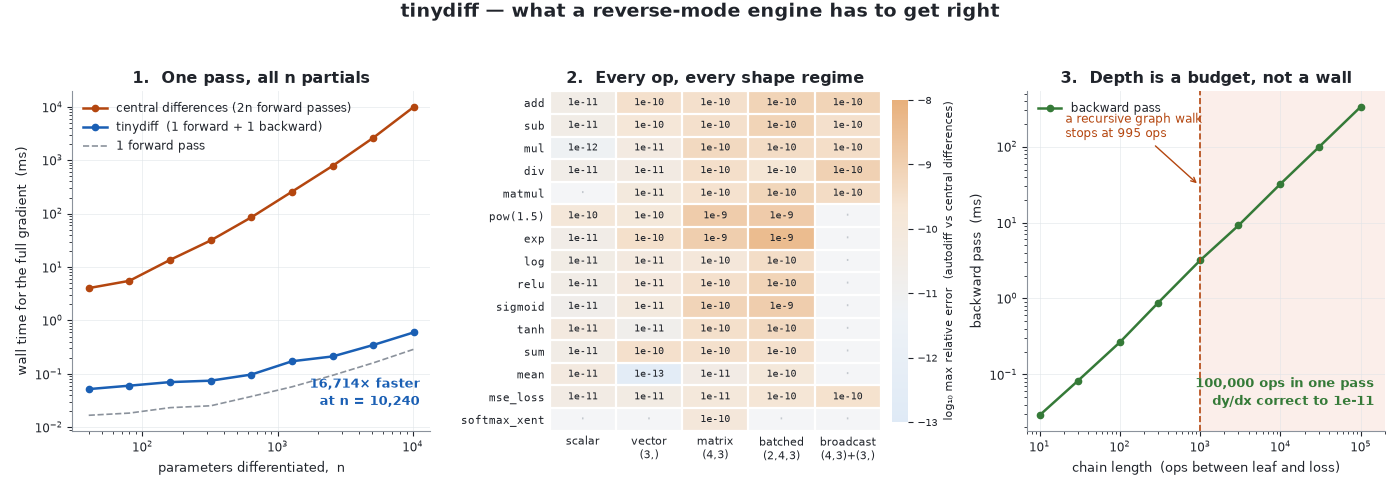
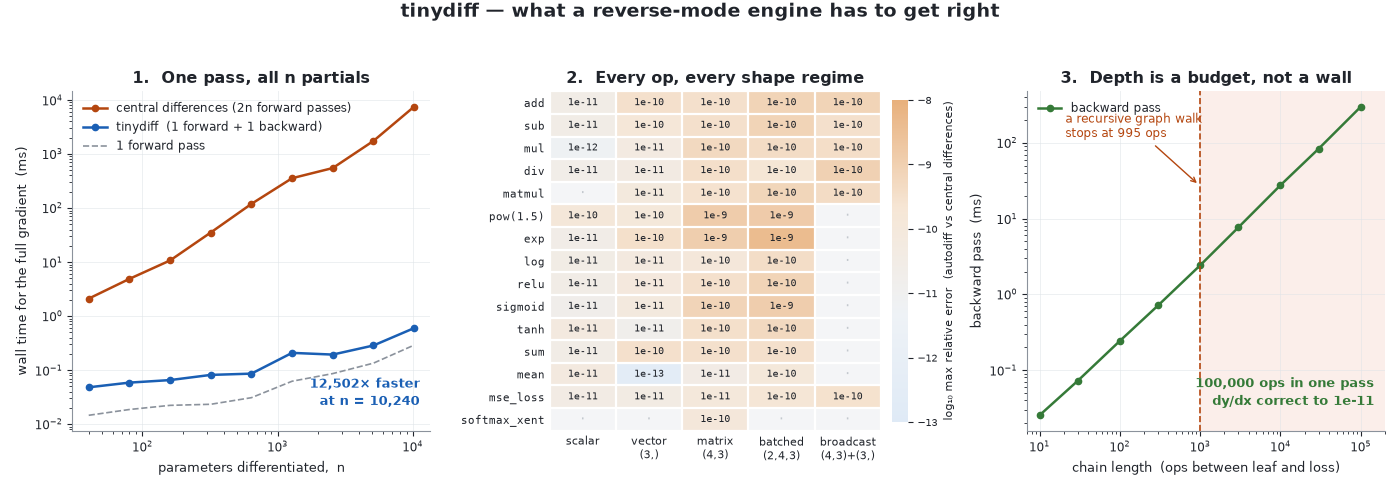
docs: fix self-contradicting spiral claim and five other unmeasured numbers
The spiral paragraph called the post-epoch-800 gradient fall a "three-decade
drop" and then quoted two losses 1.5 decades apart, in one sentence. Both
halves were wrong and each refuted the other. Re-ran the seeded run
(examples/make_figures.train_spiral, final loss 0.0019 / train 100.0% / held
out 98.8%, reproduced): the per-layer gradient EMAs fall 1.50, 1.72 and 1.82
decades from epoch 750 to 1499 and the loss falls 1.53 decades over the same
span. Three decades is the height of the panel; the largest fall any single
curve makes over the whole run is 2.83 decades. The quoted 0.064 was also
loss[750] inside a sentence about epoch 800 (loss[800] = 0.0500), so the
paragraph now anchors on epoch 750, which spiral.py prints, and the printed
block is no longer trimmed.

Everything else re-measured this session, on this machine, in /tmp/venv-tinydiff:

- backward wall clock: "about 300 ms, roughly 3 us per node" was the best case.
  Ten standalone best-of-three trials and five in-process sweeps put one
  100,000-op backward pass between 300 ms and 470 ms (3.0-4.7 us per op) at a
  load average of 4.9 to 6.6 on eight cores. Range quoted, machine load stated.
- "per node" was also the wrong denominator: y = y * m wraps the scalar in its
  own Tensor, so the chain holds 200,001 live Tensors and the walk visits all
  of them. Limitations said 100,000.
- panel 2 is not "every public op": correctness_ledger runs 15 of the 16, with
[…]

diff --git a/examples/validate.py b/examples/validate.py
@@ -44,7 +44,7 @@ import tinydiff as td
 # 4e-11 relative, at h ~ 1e-5. At the h = 1e-6 the checker uses the floor is
 # higher, and it is measured rather than inferred: over the 62 (op, shape)
 # cells of the correctness figure the disagreement runs 2.99e-13 to 4.23e-09,
-# median 2.29e-10. 1e-6 sits ~240x above the noisiest of those cells (so the
+# median 2.29e-10. 1e-6 sits 236x above the noisiest of those cells (so the
 # estimator's noise never fails the check) and orders of magnitude below the
 # error of any genuinely wrong VJP, which is a factor, not a rounding.
 TOL_EXACT = 1e-12

diff --git a/README.md b/README.md
@@ -2,7 +2,9 @@
 
 [![ci](https://github.com/superkush06/tinydiff/actions/workflows/ci.yml/badge.svg)](https://github.com/superkush06/tinydiff/actions/workflows/ci.yml)
 
-Reverse-mode automatic differentiation in about 440 lines of NumPy.
+Reverse-mode automatic differentiation in 654 lines of NumPy
+(`wc -l tinydiff/*.py`), or 436 once blank lines, comments and docstrings come
+out.
 
 Run the forward pass once, walk the graph backwards once, and you have every
 partial derivative — all `n` of them — for roughly the cost of the forward
@@ -28,18 +30,23 @@ why reverse mode exists. The exact ratio is a wall-clock measurement, so the
 script prints it and the panel annotates it; repeating it here would only let
 it go stale.
 
-**2 — Correctness.** Every public op crossed with five shape regimes, scored by
+**2 — Correctness.** Fifteen public ops — every one except `neg`, which
+`examples/validate.py` picks up — crossed with five shape regimes, scored by
 the worst relative disagreement with a central-difference estimate: 62
 (op, shape) pairs, worst case `4.2e-09`. The darker cells are the reference
 method's error, not autodiff's: at `eps = 1e-6` central differences are off by
 `2.3e-10` at the median cell and `4.2e-09` at the worst. Dots mark combinations
 that do not exist — a unary op has nothing to broadcast against.
 
-**3 — Depth.** Backward time is linear in graph depth across four decades, and
-a 100,000-op chain returns `dy/dx` correct to `1.1e-11`. The vertical line is
-measured, not quoted: the textbook recursive graph walk raises `RecursionError`
-at 995 ops on this interpreter. tinydiff's traversal uses an explicit stack, so
-depth costs memory, not stack frames.
+**3 — Depth.** Backward time is linear in graph depth across four decades —
+over the nine points of the plotted sweep, from 10 ops to 100,000, the time
+per op stays between 2.3 and 3.0 µs — and a 100,000-op chain returns `dy/dx`
+correct to `1.1e-11`. The vertical line is measured, not quoted: the textbook
+recursive graph walk raises `RecursionError` at 995 ops when `make_figures.py`
+runs the probe. That cliff shifts by a frame or two with how deep the caller
+already is — the same probe under `python -c` gave 996 — so it is a property
+of the interpreter's stack limit, not a constant of the library. tinydiff's
+traversal uses an explicit stack, so depth costs memory, not stack frames.
 
 ## Install
 
@@ -47,7 +54,7 @@ depth costs memory, not stack frames.
 git clone https://github.com/superkush06/tinydiff.git
 cd tinydiff
 pip install -e ".[dev,plot]"
-pytest          # 124 tests, about 5 seconds
+pytest          # 124 tests, about 4 seconds
 ```
 
 `dev` pulls in pytest and ruff. `plot` pulls in matplotlib, which
@@ -235,20 +242,23 @@ correct.
 Panel A: the naive `log(sum(exp(z)))` and the max-shifted form are
 bit-identical until `c = 710`, where the naive one starts returning `inf`.
 Panel B is the important one: at a logit gap of 745 the naive cross-entropy
-does not fail, it returns `744.4401`, half a nat wrong, because the
-probability it took the log of had gone subnormal. `inf` gets noticed; a
-plausible number does not. Panel C sets the limit on the whole exercise: the
-finite-difference reference bottoms out at $3\times10^{-11}$, so no
+does not fail, it returns `744.4401` where the exact answer is `745.000000` —
+0.56 of a nat wrong — because the probability it took the log of had gone
+subnormal. `inf` gets noticed; a plausible number does not. Panel C sets the
+limit on the whole exercise: the finite-difference reference bottoms out at
+$3.2\times10^{-11}$ (median over $h \in [3\!\times\!10^{-7}, 3\!\times\!10^{-5}]$,
+where the U in $h$ is a round-off sawtooth rather than a curve), so no
 gradient-check tolerance below about `1e-9` means anything, and the closed
-forms in section 2 are what pin the last digits.
+forms in section 1 are what pin the last digits.
 
 The full ledger — claim, our value, reference value, source — is in
 [`docs/validation.md`](docs/validation.md), including a section on the eight
 places tinydiff does *not* match its reference, and why each one is there.
 
-`tests/test_properties.py` covers the other half: 200 randomised draws per
-invariant, for statements that must hold on every input rather than on a
-fixture — the directional derivative, linearity of the VJP, Euler
+`tests/test_properties.py` covers the other half: seventeen invariants at 200
+randomised draws each (21 collected cases, since one is parametrised), for
+statements that must hold on every input rather than on a fixture. Ten of the
+seventeen: the directional derivative, linearity of the VJP, Euler
 homogeneity, fan-out accumulation, broadcast conservation, the matmul
 adjoint identity at every operand rank, traversal order, softmax rows
 summing to zero, convexity as a monotone gradient, and Adam's scale-free
@@ -276,9 +286,20 @@ print(f"{k} ops deep, dy/dx = {float(x.grad):.12f}")
 ```
 
 The chain is built so the answer is exactly 2 at any depth, so the last few
-digits are a running total of floating-point drift. The backward pass takes
-about 300 ms of pure Python, roughly 3 µs per node; panel 3 has the
-measurement.
+digits are a running total of floating-point drift. The backward pass is pure
+Python. Timed the way panel 3 times it — best of three passes, garbage
+collector paused — one pass over the 100,000-op chain took **300 ms** in the
+run that produced the figure, and every run taken for this README fell between
+**300 ms and 470 ms**, or 3.0 to 4.7 µs per op. The low end is a warm process
+that has already walked the shorter chains; the high end is a cold process
+doing nothing but this. Neither end is an idle machine — load average ran 4.9
+to 6.6 on eight cores throughout — so treat 300 ms as the optimistic figure
+rather than the typical one.
+
+"Per op" and "per node" are not the same denominator here: `y = y * m` wraps
+the Python float `m` in a `Tensor` of its own, so the walk visits 200,001
+nodes to do 100,000 multiplications, and the cost per *node* is half the
+number above.
 
 ## Examples
 
@@ -301,7 +322,8 @@ epoch  999: loss=0.0002  acc=100%
 ```
 
 `fit_sine.py` — 256 points of `sin(x)` on `[-3, 3]`, a 1-32-32-1 ReLU stack,
-Adam at 0.01. Mean squared error falls three orders of magnitude in 200 epochs:
+Adam at 0.01. Mean squared error falls by a factor of 840 over 200 epochs —
+2.9 decades, not quite the round three:
 
 ```
 epoch    0: loss=1.339921
@@ -316,8 +338,11 @@ noise draw and scored on another:
 
 ```
 epoch    0: loss=0.8808  train=50.0%  test=50.0%
+epoch  250: loss=0.4155  train=70.8%  test=67.8%
 epoch  500: loss=0.2527  train=88.5%  test=85.2%
+epoch  750: loss=0.0641  train=98.8%  test=96.2%
 epoch 1000: loss=0.0190  train=99.8%  test=98.2%
+epoch 1250: loss=0.0049  train=100.0%  test=98.8%
 epoch 1499: loss=0.0019  train=100.0%  test=98.8%
 ```
 
@@ -327,15 +352,24 @@ Three readings. Held-out accuracy tracks training accuracy the whole way down:
 100% train against 98.8% held out is a fit, not memorisation. The middle panel
 draws the *held-out* points on a region learned from the training draw; the
 mistakes are out at the rim, where the arms crowd. In the gradient panel all
-three layers carry gradients of the same order throughout, so nothing vanishes
-on the way back through two ReLUs. The three-decade drop after epoch 800 is
-convergence, not a vanishing gradient — the loss falls over the same epochs,
-from 0.064 to 0.002.
+three layers carry gradients of the same order throughout — the widest gap
+between the three EMA curves at any epoch is 0.82 decades, at epoch 24, and it
+stays under 0.5 decades from epoch 250 onwards — so nothing vanishes on the
+way back through two ReLUs. The drop over the last third is convergence, not a
+vanishing gradient: from epoch 750 to epoch 1499 the three EMA curves fall
+1.50, 1.72 and 1.82 decades, and the loss falls 1.53 decades over exactly
+those epochs — `0.0641` to `0.0019`, both printed above. Three decades is the
+height of the panel, not the size of any drop in it; the largest fall a single
+curve makes across the whole run is 2.83 decades, `Linear(32, 2)` from epoch 0
+to epoch 1499.
 
 `transformer_block.py` — one transformer feed-forward sublayer (LayerNorm →
 projection → GELU → projection → residual → unembedding → cross-entropy),
 built twice on the same parameters: once with a hand-derived NumPy backward
-pass, once as tinydiff expressions. Every gradient is compared.
+pass, once as tinydiff expressions. Every gradient is compared. The real
+output prints nine rows every time — `gamma beta W1 b1 W2 b2 Wu bu X`; the
+blocks below are trimmed to three of them, and then to the single row each
+injected bug moves. `...` marks where rows were cut.
 
 ```
 forward loss   hand-written 3.828826741946   tinydiff 3.828826741946   gap 0.0e+00
@@ -343,7 +377,9 @@ forward loss   hand-written 3.828826741946   tinydiff 3.828826741946   gap 0.0e+
 correct hand-derived backward pass
   parameter  max rel gap       cosine
   gamma        1.72e-16   1.00000000
+  ...
   W1           2.31e-16   1.00000000
+  ...
   X            3.06e-16   1.00000000
   -> worst disagreement 4.8e-16; the two derivations are the same function.
 ```
@@ -355,12 +391,19 @@ and shows what they cost:
 ```
 injected bug: b1 gradient not summed over the token axis
   one step of size 0.05 downhill: loss 3.828827 -> 2.935147   (still descends)
+  ...
   b1           7.62e-01   0.52006403  <-- wrong
+  ...
 
 injected bug: LayerNorm backward missing its two mean terms
   one step of size 0.05 downhill: loss 3.828827 -> 2.924399   (still descends)
+  ...
   X            5.12e-01   0.92334552  <-- wrong
 ```
+
+In both bug blocks the eight rows behind the `...` are unchanged from the
+clean run — `1.60e-16` to `4.84e-16`, cosine `1.00000000` throughout. That is
+the point: one row moves and the other eight look perfect.
 
 Neither bug shows up in the loss curve. The first keeps a cosine of `0.52`
 with the true gradient, so the step is still downhill and training looks
@@ -390,11 +433,14 @@ These bound what you can build on this:
   means rewriting every op to compose `Tensor`s — a design change, not a flag.
 - **float64 only**, on CPU, single-threaded. There is no dtype policy and no
   device concept.
-- **Per-op overhead dominates for small tensors.** About 3 µs of Python per
-  node. This is a teaching engine and a correctness reference, not a fast one;
-  panel 1 is a claim about asymptotics, not about beating BLAS.
-- **The graph retains every intermediate** until the root tensor is dropped. A
-  100,000-op chain holds 100,000 live `Tensor`s.
+- **Per-op overhead dominates for small tensors.** 3.0 to 4.7 µs of Python per
+  op on the loaded eight-core laptop these figures came from — see Depth for
+  the spread and the caveat. This is a teaching engine and a correctness
+  reference, not a fast one; panel 1 is a claim about asymptotics, not about
+  beating BLAS.
+- **The graph retains every intermediate** until the root tensor is dropped.
+  The 100,000-op chain above holds 200,001 live `Tensor`s: one per product,
+  one per wrapped scalar, plus the leaf.
 
 ## Where this sits
 

diff --git a/CHANGELOG.md b/CHANGELOG.md
@@ -1,5 +1,62 @@
 # Changelog
 
+## [Unreleased]
+
+### Changed
+- The README's spiral paragraph called the gradient fall after epoch 800 a
+  "three-decade drop" and then quoted two losses 1.5 decades apart, in one
+  sentence. Neither half survived re-measurement. Three decades is the *height
+  of the panel*: the per-layer EMA curves fall 1.50, 1.72 and 1.82 decades
+  from epoch 750 to 1499, the loss falls 1.53 decades over the same span, and
+  the largest fall any single curve makes over the whole run is 2.83 decades.
+  The quoted `0.064` was also anchored to epoch 750 inside a sentence about
+  epoch 800 (`loss[800]` is `0.0500`); the paragraph now anchors everything to
+  epoch 750, which `spiral.py` actually prints, and the printed block is no
+  longer trimmed.
+- Backward-pass wall-clock claims. "About 300 ms of pure Python, roughly 3 µs
+  per node" was the best case, not a typical one. Ten standalone best-of-three
+  trials plus five in-process sweeps put one 100,000-op backward pass between
+  300 ms and 470 ms (3.0 to 4.7 µs per op) on a machine whose load average ran
+  4.9 to 6.6 on eight cores. README and the Limitations bullet now quote the
+  range and say the machine was loaded.
+- "Per node" was also the wrong denominator: `y = y * m` wraps the scalar `m`
+  in a `Tensor` of its own, so the 100,000-op chain holds 200,001 live
+  `Tensor`s and the walk visits all of them. The Limitations bullet said
+  100,000.
+- Panel 2's caption claimed "every public op". The ledger in
+  `make_figures.correctness_ledger` runs fifteen of the sixteen public ops —
+  `neg` is not in it. `examples/validate.py` does cover `neg`, which is why
+  its sweep is 66 pairs where the panel's is 62. Caption now says so.
+- "About 440 lines of NumPy" held only on the tightest of three counting
+  rules. `tinydiff/*.py` is 654 physical lines, 492 non-blank/non-comment, 436
+  with docstrings also removed. The headline now gives 654 and 436 and names
+  the rule for each.
+- "124 tests, about 5 seconds" — measured 3.45 s, 3.83 s and 3.95 s wall on
+  three consecutive runs. Now "about 4 seconds". The 124/123 split was
+  re-confirmed against a matplotlib-free venv: 123 passed, 1 skipped.
+- "The closed forms in section 2 are what pin the last digits" pointed at
+  `validate.py`'s "Canonical functions"; the op-by-op closed forms are section
+  1. Same off-by-one fixed in `docs/validation.md`, which sourced the 62-cell
+  spread to §4 (66 cells) rather than to panel 2 of the engine report.
+- Panel B's "half a nat wrong" is `745 - 744.4401 = 0.56` nats; panel C's
+  finite-difference floor prints `3.2e-11`, not `3e-11`. `1e-6` sits 236× (not
+  "~240×") above the noisiest ledger cell — corrected in `docs/validation.md`
+  and `examples/validate.py`.
+- `fit_sine.py`'s "three orders of magnitude in 200 epochs" is a factor of 840
+  — 2.9 decades — from the two losses printed directly above the claim.
+- The `transformer_block.py` output blocks showed 3 of 9 and 1 of 9 parameter
+  rows with nothing to mark the cut. Rows elided are now marked `...`, the
+  nine-row list is named in the prose, and the elided rows' actual range
+  (`1.60e-16` to `4.84e-16`) is stated.
+- `tests/test_properties.py` was described by a ten-item list that reads as
+  exhaustive; there are seventeen invariants (21 collected cases). The prose
+  now gives the count and presents the list as ten of them.
+- The recursion cliff is 995 ops when `make_figures.py` runs the probe and 996
+  under `python -c` — it moves with the caller's stack depth. Panel 3's
+  caption now says that instead of implying a fixed constant.
+- `pyproject.toml` advertised "<500 LOC", true only on the
+  non-blank/non-comment count. Now states 654 lines.
+
 ## [0.4.1] - 2026-08-03
 
 ### Changed

diff --git a/docs/validation.md b/docs/validation.md
@@ -33,7 +33,7 @@ Two conventions used throughout:
 | tolerance | value | what binds it |
 | --- | --- | --- |
 | closed forms | `1e-12` relative | Both sides evaluate the same real number in float64 and differ only in the order of the roundings, so the gap sits at a few ulp. Observed worst case across all rows: `1.11e-16`. 1e-12 leaves four decades of slack for a different BLAS or summation order, and is still four decades too tight to hide a wrong formula. |
-| central differences | `1e-6` relative | Bounded from below by the *estimator*, not by us. Truncation error goes as $h^2 f'''/6$ and round-off as $\epsilon_{\text{mach}}\,\lvert f\rvert / h$; their sum bottoms out near $\epsilon_{\text{mach}}^{2/3} \approx 3.7\times10^{-11}$ (Nocedal & Wright 2006, §8.1). At the $h = 10^{-6}$ the checker uses, the floor is higher than that optimum, and it is measured rather than inferred: across the 62 (op, shape) cells of §4 the disagreement runs `2.99e-13` to `4.23e-09`, median `2.29e-10`. `1e-6` therefore sits about 240× above the noisiest cell and about 4000× above the median one, and orders of magnitude below any genuinely wrong VJP, which is off by a *factor*, not a rounding. |
+| central differences | `1e-6` relative | Bounded from below by the *estimator*, not by us. Truncation error goes as $h^2 f'''/6$ and round-off as $\epsilon_{\text{mach}}\,\lvert f\rvert / h$; their sum bottoms out near $\epsilon_{\text{mach}}^{2/3} \approx 3.7\times10^{-11}$ (Nocedal & Wright 2006, §8.1). At the $h = 10^{-6}$ the checker uses, the floor is higher than that optimum, and it is measured rather than inferred: across the 62 (op, shape) cells of panel 2 of the engine report — §4's companion view, which scores magnitudes where §4's own 66-cell sweep scores pass/fail — the disagreement runs `2.99e-13` to `4.23e-09`, median `2.29e-10`. `1e-6` therefore sits 236× above the noisiest cell and 4360× above the median one, and orders of magnitude below any genuinely wrong VJP, which is off by a *factor*, not a rounding. |
 
 The floor is measured rather than assumed — panel C of the figure below,
 and `tests/test_validation.py::test_central_difference_floor_is_near_eps_two_thirds`.
